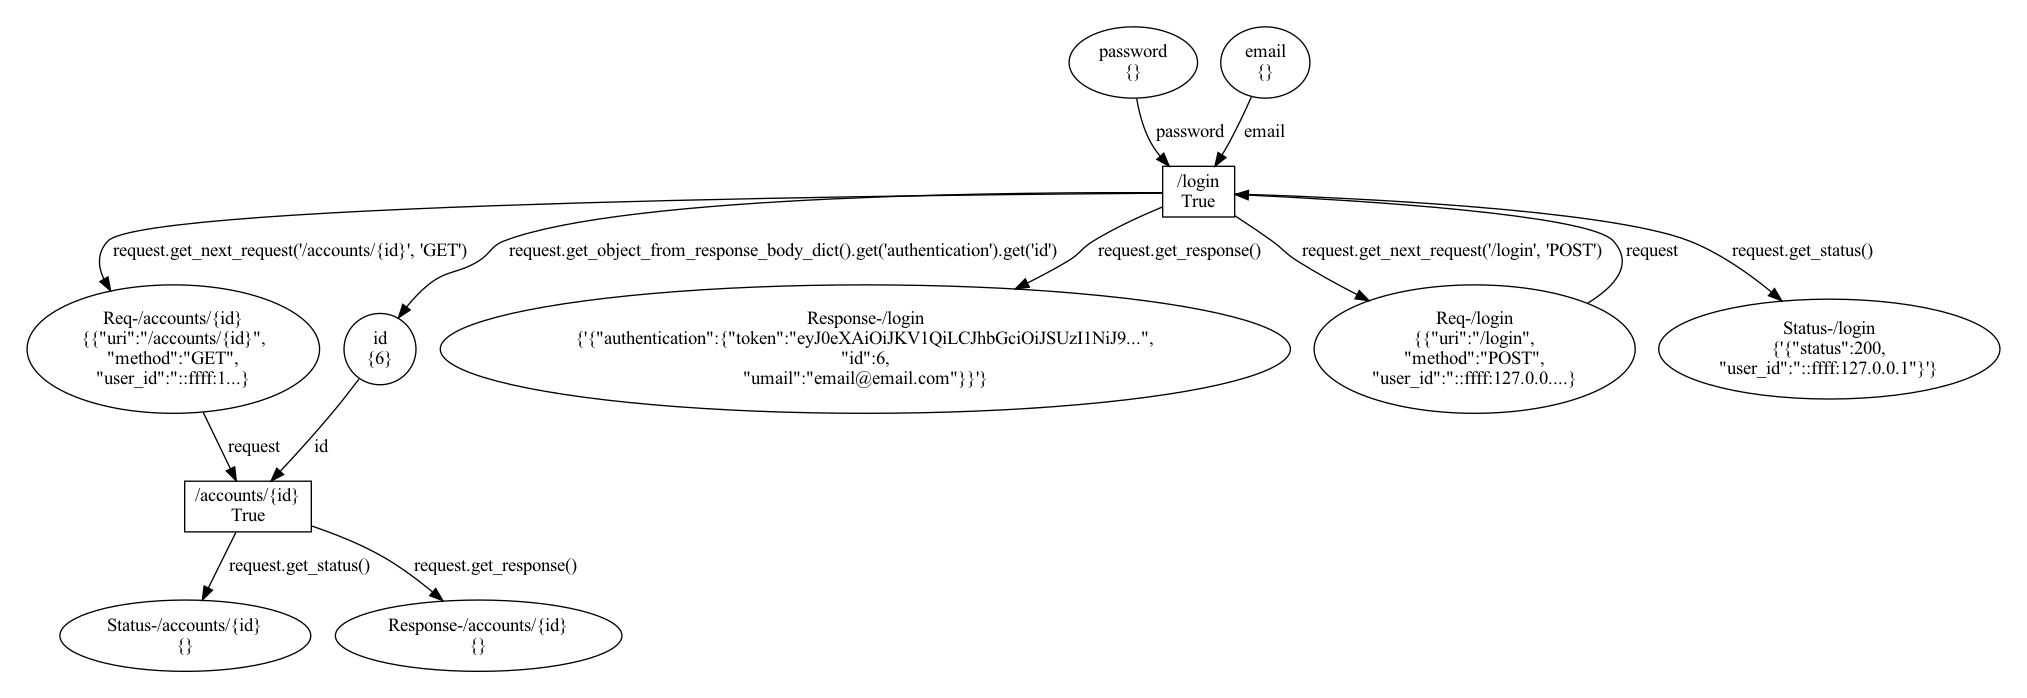
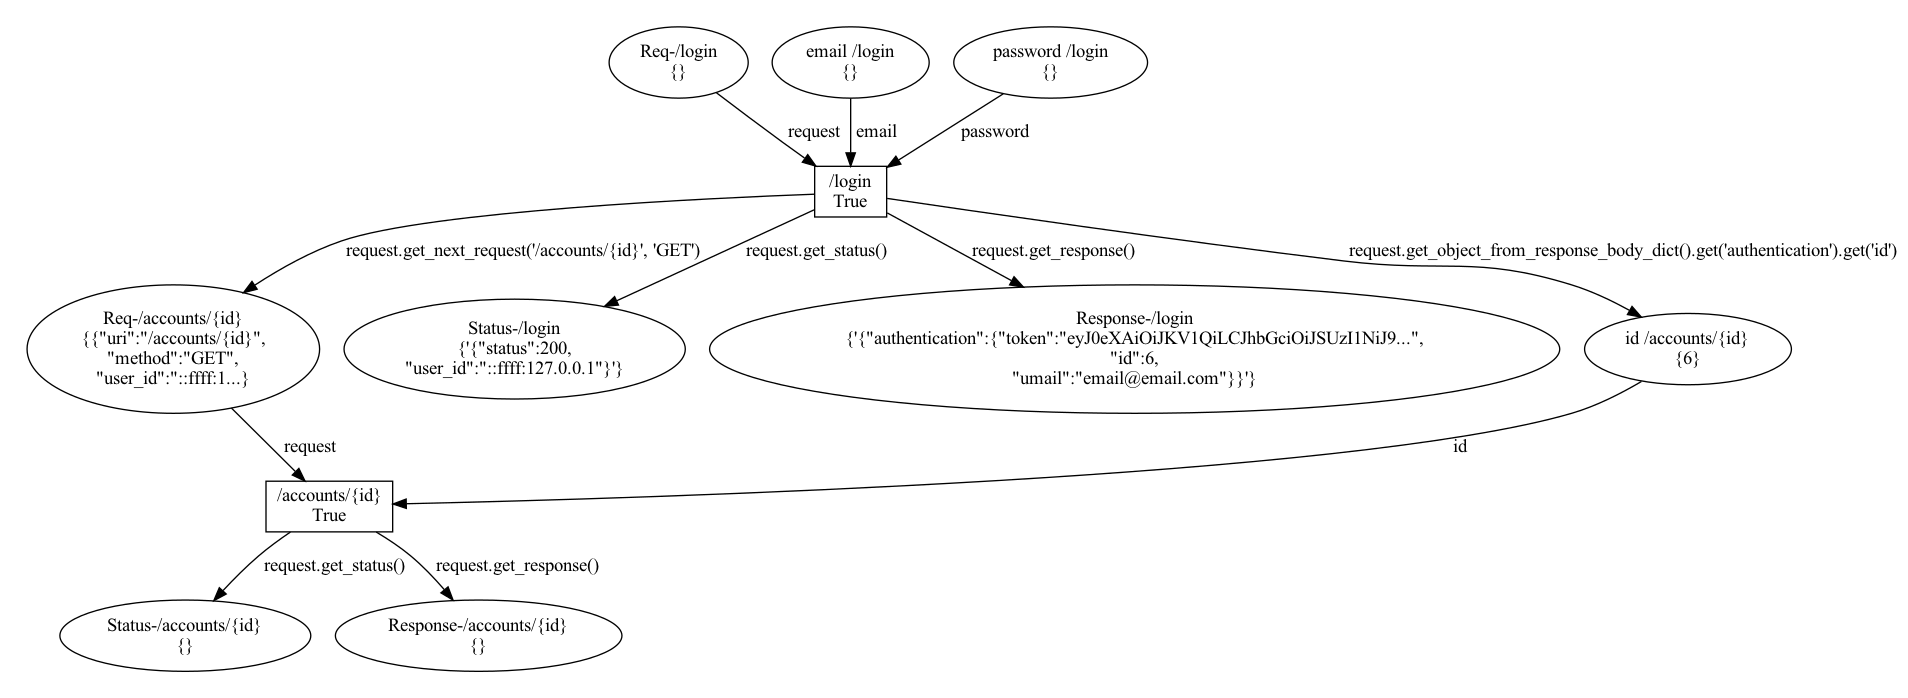
feat: change in how parameter places are named

diff --git a/OpenAPI2PetriNet.py b/OpenAPI2PetriNet.py
@@ -1,6 +1,7 @@
 import snakes.plugins
-from ColouredToken import ColouredToken, RequestResponseToken
 from prance import ResolvingParser
+
+from ColouredToken import ColouredToken
 
 snakes.plugins.load("gv", "snakes.nets", "nets")
 from utils.log_utils import LogUtils
@@ -74,7 +75,9 @@ class OpenAPI2PetriNet:
                             parameters_key_value = link_value.get('parameters')
                             if parameters_key_value:
                                 ((parameter_id, parameter_value),) = parameters_key_value.items()
-                                input_place = self.get_place_by_name(parameter_id)
+                                input_place = self.get_place_by_name(
+                                    self.create_place_name_to_parameter(parameter_id, nex_transition_name))
+
                                 if RESPONSE_BODY in parameter_value:
                                     expression_str = 'request.get_object_from_response_body_dict()'
                                     for parameter_value_parts in parameter_value \
@@ -171,7 +174,7 @@ class OpenAPI2PetriNet:
 
     def create_place_and_connect_as_input(self, petri_net, transition, property_name):
         # TODO: verify if the place already exists
-        place = Place(property_name, [])
+        place = Place(self.create_place_name_to_parameter(property_name, transition.name), [])
         petri_net.add_place(place)
         petri_net.add_input(place.name, transition.name, Variable(property_name))
 
@@ -180,6 +183,8 @@ class OpenAPI2PetriNet:
         petri_net.add_place(place)
         petri_net.add_output(place.name, transition.name, Variable(property_name))
 
+    def create_place_name_to_parameter(self, parameter_name, transition_name):
+        return parameter_name + ' ' + transition_name
 
     def get_place_by_name(self, name):
         response = [x for x in self.petri_net.place() if x.name == name]
@@ -192,18 +197,6 @@ class OpenAPI2PetriNet:
             if (response and len(response) > 0):
                 return response[0]
         return None
-
-    # def get_transition_by_name(self, petri_net, name):
-    #     response = [x for x in petri_net.transition() if x.name == name]
-    #     if (response and len(response) > 0):
-    #         return response[0]
-    #     else:
-    #         # se o place nao foi encontrado pelo metodo anterior, e possivel que o path tenha um
-    #         # parametro
-    #         response = [x for x in petri_net.transition() if StringUtils.compare_uri_with_model(x.name, name)]
-    #         if (response and len(response) > 0):
-    #             return response[0]
-    #     return None
 
     def get_transition_by_name(self, name):
         response = [x for x in self.petri_net.transition() if x.name == name]
@@ -220,34 +213,7 @@ class OpenAPI2PetriNet:
     def create_name_to_req_place(self, uri):
         return f'Req-{uri}'
 
-    # def fill_input_places(self, petri_net, log_json):
-    #     if (log_json.get('uri') in [x.name for x in petri_net.transition()]):
-    #         # setting tokens related to RequestLine
-    #         place_req_name='Req-'+log_json.get('uri')
-    #         place = self.get_place_by_name(petri_net, place_req_name)
-    #         place.tokens.add(ColouredToken(LogUtils.create_request_line_from_log(log_json)))
-
-    #         # given a transistion, check if we have some input to set
-    #         # setting tokens related to requestBody
-    #         request_body_parameter_names = [*log_json.get('requestBody').keys()] # convert dict to array
-    #         transition = [x for x in petri_net.transition() if x.name == log_json.get('uri')][0]
-    #         places = transition.input()
-    #         for parameter_name in request_body_parameter_names:
-    #             for place in places:
-    #                 if place[0].name == parameter_name:
-    #                     place[0].add(ColouredToken(LogUtils.create_data_from_request_body_in_log(log_json, parameter_name)))
-    #                     continue
-    #         # setting tokens related to parameters
-    #     else:
-    #         # setting tokens
-    #         for transition in petri_net.transition():
-    #             if (StringUtils.compare_uri_with_model(transition.name, log_json.get('uri') )):
-    #                 place_req_name='Req-'+transition.name
-    #                 place = self.get_place_by_name(petri_net, place_req_name)
-    #                 place.tokens.add(ColouredToken(LogUtils.create_request_line_from_log(log_json)))
-
     def place_is_output(self, petri_net, place):
-        # import ipdb; ipdb.set_trace()
         transitions = petri_net.transition()
         for transition in transitions:
             for output in transition.output():
@@ -275,7 +241,7 @@ class OpenAPI2PetriNet:
                             # se o place for output de alguma transição, nao devemos colocar tokens
                             if self.place_is_output(self.petri_net, place[0]):
                                 continue
-                            if place[0].name == parameter_name:
+                            if place[0].name == self.create_place_name_to_parameter(parameter_name, transition.name):
                                 place[0].add(ColouredToken(
                                     LogUtils.create_data_from_request_body_in_log(log_json, parameter_name)))
                                 break

diff --git a/snakes_bola_example_01.py b/snakes_bola_example_01.py
@@ -1,6 +1,5 @@
 import json
 from ColouredToken import ColouredToken, RequestResponseToken
-from prance import ResolvingParser
 from OpenAPI2PetriNet import OpenAPI2PetriNet
 from utils.log_utils import LogUtils
 import snakes.plugins
@@ -27,7 +26,6 @@ def temp_create_link(petri_net, open_api_to_petri_parser):
     # setting req arc
     place = open_api_to_petri_parser.get_place_by_name('Req-/accounts/{id}')
     petri_net.add_output(place.name, transition.name, Expression("request.get_next_request('/accounts/{id}', 'GET')"))
-    # Value(ColouredToken(LogUtils.create_request_line_from_log('/accounts/{id}', 'GET', '')))
     # setting input1 arc
     place = open_api_to_petri_parser.get_place_by_name('id')
     petri_net.add_output(place.name, transition.name, Expression("request.get_object_from_response_body_dict().get('authentication').get('id')"))
@@ -58,17 +56,18 @@ def main():
     authentication = ColouredToken(LogUtils.create_response_data_from_log(log_line, 'authentication'))
 
     import ipdb; ipdb.set_trace()
-    #transition_1.fire(Substitution(request=request_line, email=email, password=password, status=response_status, authentication=authentication))
     transitions[0].fire(Substitution(request=request_line, email=email, password=password, authentication=authentication))
     petri_net.draw("value-1.png")
     
     log_line = logs_json[3]
-    open_api_to_petri_parser.fill_input_places(log_line)
+    # TODO: provavelmente não precisamos desse fill_input_places
+    # open_api_to_petri_parser.fill_input_places(log_line)
     petri_net.draw("value-0.png")
 
     import ipdb; ipdb.set_trace()
     request_line = RequestResponseToken(*LogUtils.create_request_response_from_log(log_line))
     id_variable = 6 # esse valor deve ser extraído do log
+    # TODO: FIx: no log temos "uri":"/accounts/6" e no token temos "uri":"/accounts/{id}"
     transitions[1].fire(Substitution(request=request_line, id=id_variable ))
 
     

diff --git a/utils/string_utils.py b/utils/string_utils.py
@@ -3,6 +3,8 @@ class StringUtils:
     # ex: "/rest/basket/6" and "/rest/basket/{basketId}"
     @staticmethod
     def compare_uri_with_model(model_uri, uri):
+        if model_uri.split(' '):
+            model_uri = model_uri.split(' ')[0]
         model_uri_splited = model_uri.split('/')
         uri_splited = uri.split('/')
         if (len(model_uri_splited) == len(uri_splited)):
